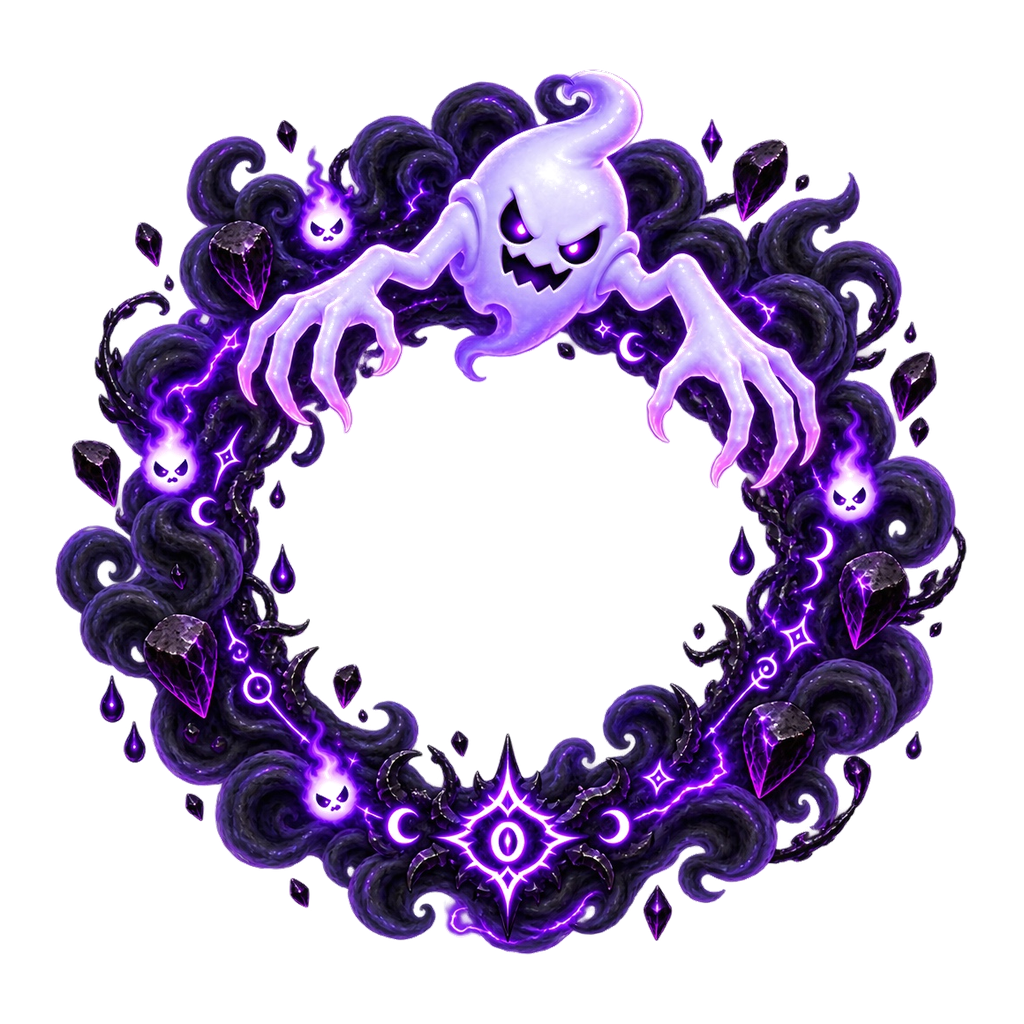
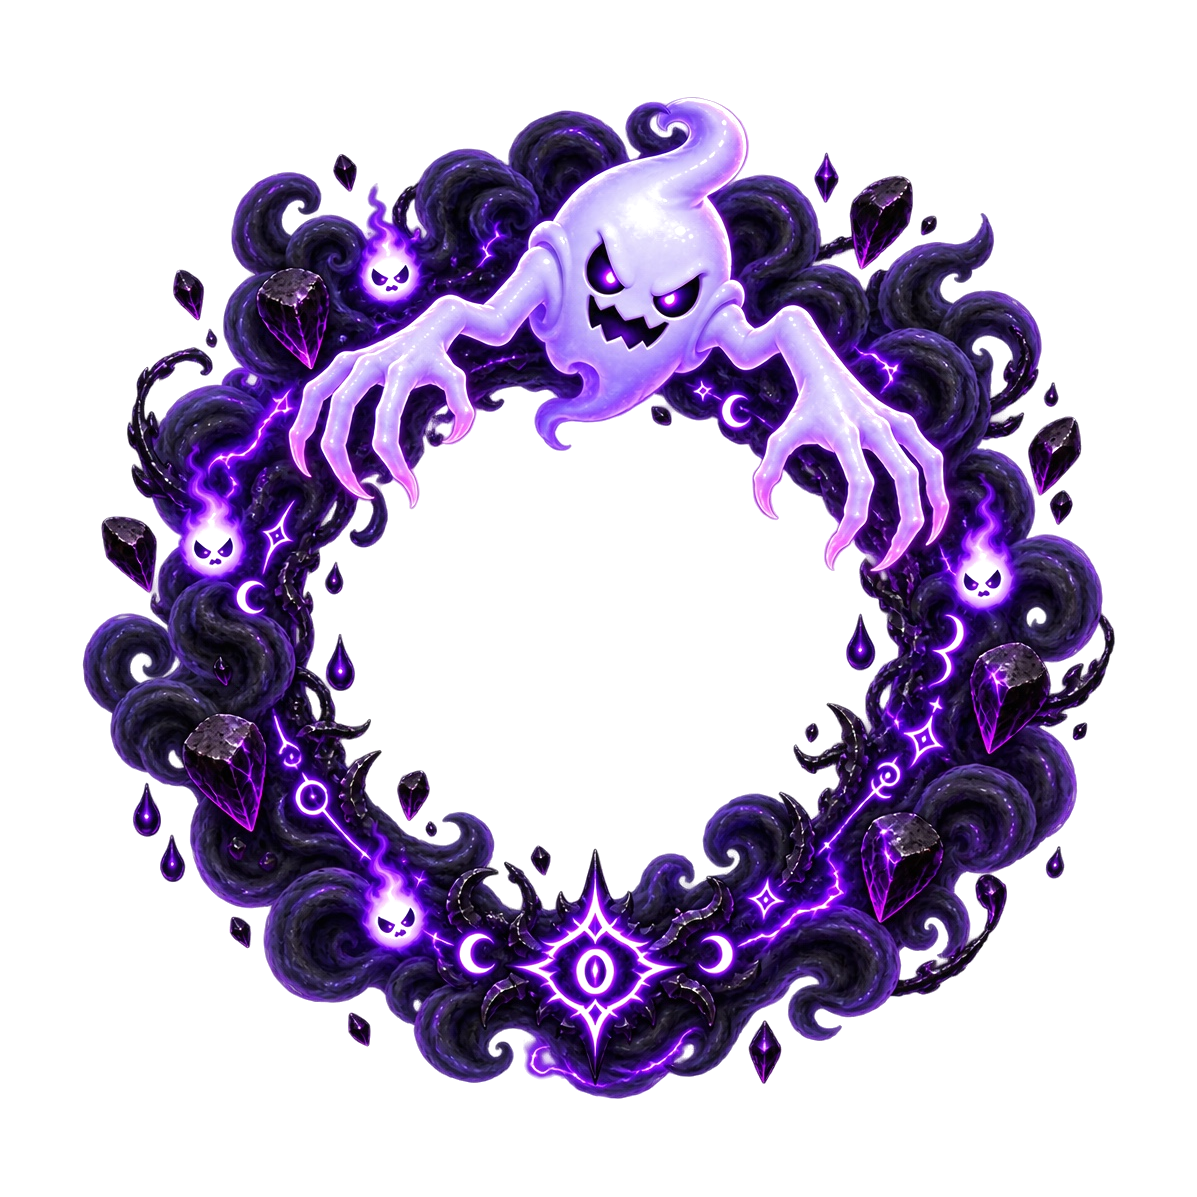
Add files via upload

diff --git a/game.js b/game.js
@@ -7715,7 +7715,7 @@ renderDogHotelScene=function(){
    V14.2 — Black Magic / Play Curse on Friend Plots
    Asset filename expected: black-magic-plot-overlay.png
    ====================================================================== */
-const BLACK_MAGIC_PLOT_IMAGE="black-magic-plot-overlay.png?v=2";
+const BLACK_MAGIC_PLOT_IMAGE="black-magic-plot-overlay.png?v=3";
 const BLACK_MAGIC_DURATION_MS=3*60*60*1000;
 const BLACK_MAGIC_DAILY_LIMIT=20;
 const BLACK_MAGIC_REMOVE_COST={egg:10,milk:20};
@@ -7763,19 +7763,22 @@ function ensureBlackMagicStyles(){
   const style=document.createElement('style');
   style.id='blackMagicStyleV142';
   style.textContent=`
-    .plot-black-magic-active{box-shadow:0 0 0 2px rgba(55,0,66,.45), 0 14px 28px rgba(0,0,0,.22) inset;}
-    .plot-black-magic-overlay{position:absolute;inset:-8% -8% -4% -8%;pointer-events:none;display:flex;align-items:center;justify-content:center;z-index:3;animation:blackMagicFloatV143 1.55s ease-in-out infinite,blackMagicFlickerV143 2.4s steps(2,end) infinite;transform-origin:center;}
-    @keyframes blackMagicFloatV143{0%,100%{transform:translate3d(0,0,0) scale(.98) rotate(-1deg)}25%{transform:translate3d(-2px,1px,0) scale(1.02) rotate(.7deg)}50%{transform:translate3d(2px,-1px,0) scale(1.035) rotate(-.4deg)}75%{transform:translate3d(-1px,-2px,0) scale(1.01) rotate(.8deg)}}
-    @keyframes blackMagicFlickerV143{0%,100%{opacity:.92;filter:brightness(.88) saturate(1.15)}20%{opacity:1;filter:brightness(1.18) saturate(1.35)}40%{opacity:.84;filter:brightness(.72) saturate(1.05)}60%{opacity:1;filter:brightness(1.28) saturate(1.45)}80%{opacity:.9;filter:brightness(.82) saturate(1.18)}}
-    .plot-black-magic-overlay img{width:100%;height:100%;object-fit:contain;filter:drop-shadow(0 8px 8px rgba(0,0,0,.46)) drop-shadow(0 0 8px rgba(119,27,195,.65));}
-    .plot-black-magic-active::after{content:"";position:absolute;inset:0;z-index:2;pointer-events:none;border-radius:inherit;background:radial-gradient(circle at 50% 50%,rgba(17,0,25,.06),rgba(8,0,13,.34));animation:blackMagicDarkPulseV143 1.8s ease-in-out infinite;}
-    @keyframes blackMagicDarkPulseV143{0%,100%{opacity:.55}50%{opacity:.92}}
-    .plot-black-magic-badge{position:absolute;right:8px;bottom:8px;z-index:4;background:linear-gradient(180deg,#2d103f,#15071d);color:#f3d8ff;border:2px solid rgba(227,180,255,.55);border-radius:999px;padding:4px 10px;font-size:11px;line-height:1;font-weight:700;box-shadow:0 6px 16px rgba(0,0,0,.2);pointer-events:none;}
-    .black-magic-actions{display:grid;gap:10px;margin-top:12px;}
+    .plot-black-magic-active{box-shadow:0 0 0 2px rgba(73,16,95,.52), 0 0 18px rgba(117,0,186,.18), 0 16px 30px rgba(0,0,0,.22) inset;}
+    .plot-black-magic-overlay{position:absolute;inset:-22% -22% -18% -22%;pointer-events:none;display:flex;align-items:center;justify-content:center;z-index:3;animation:blackMagicFloatV144 1.8s ease-in-out infinite,blackMagicFlickerV144 2.6s steps(2,end) infinite;transform-origin:center;}
+    @keyframes blackMagicFloatV144{0%,100%{transform:translate3d(0,0,0) scale(1.02) rotate(-1.2deg)}25%{transform:translate3d(-3px,2px,0) scale(1.06) rotate(.7deg)}50%{transform:translate3d(3px,-2px,0) scale(1.09) rotate(-.5deg)}75%{transform:translate3d(-1px,-3px,0) scale(1.05) rotate(.8deg)}}
+    @keyframes blackMagicFlickerV144{0%,100%{opacity:.95;filter:brightness(.92) saturate(1.18)}18%{opacity:1;filter:brightness(1.2) saturate(1.38)}40%{opacity:.86;filter:brightness(.76) saturate(1.1)}65%{opacity:1;filter:brightness(1.34) saturate(1.5)}82%{opacity:.9;filter:brightness(.84) saturate(1.2)}}
+    .plot-black-magic-overlay img{width:118%;height:118%;object-fit:contain;background:transparent !important;mix-blend-mode:normal;filter:drop-shadow(0 10px 12px rgba(0,0,0,.5)) drop-shadow(0 0 12px rgba(126,36,228,.75));}
+    .plot-black-magic-active::after{content:"";position:absolute;inset:-2%;z-index:2;pointer-events:none;border-radius:inherit;background:radial-gradient(circle at 50% 45%,rgba(44,0,67,.08),rgba(16,0,23,.28) 62%,rgba(9,0,13,.42));animation:blackMagicDarkPulseV144 2s ease-in-out infinite;}
+    @keyframes blackMagicDarkPulseV144{0%,100%{opacity:.58}50%{opacity:.9}}
+    .plot-black-magic-badge{position:absolute;left:50%;bottom:4px;transform:translateX(-50%);z-index:4;background:linear-gradient(180deg,rgba(70,25,102,.96),rgba(34,9,49,.98));color:#f8eaff;border:2px solid rgba(223,186,255,.6);border-radius:16px;padding:7px 14px 8px;min-width:116px;text-align:center;font-size:12px;line-height:1.15;font-weight:800;letter-spacing:.1px;box-shadow:0 10px 18px rgba(0,0,0,.22), inset 0 1px 0 rgba(255,255,255,.16);text-shadow:0 1px 0 rgba(0,0,0,.28);pointer-events:none;backdrop-filter:blur(4px);}
+    .black-magic-actions{display:grid;gap:10px;margin-top:14px;}
     .black-magic-actions button{width:100%;}
-    .black-magic-note{background:rgba(38,15,54,.08);border:1px dashed rgba(86,33,119,.35);border-radius:14px;padding:10px 12px;margin-top:10px;}
-    .black-magic-cost{display:flex;gap:12px;justify-content:center;flex-wrap:wrap;margin-top:10px;}
-    .black-magic-cost span{background:#fff7fb;border:1px solid rgba(111,67,142,.22);border-radius:999px;padding:6px 12px;font-weight:700;}
+    .black-magic-note{background:linear-gradient(180deg,rgba(97,42,128,.1),rgba(54,16,73,.06));border:1px solid rgba(109,58,147,.22);box-shadow:inset 0 1px 0 rgba(255,255,255,.22);border-radius:16px;padding:12px 14px;margin-top:12px;color:#5a3668;}
+    .black-magic-cost{display:flex;gap:10px;justify-content:center;flex-wrap:wrap;margin-top:12px;}
+    .black-magic-cost span{background:linear-gradient(180deg,#fffefe,#fff6fd);border:1px solid rgba(111,67,142,.2);border-radius:999px;padding:7px 12px;font-weight:800;box-shadow:0 4px 10px rgba(62,21,93,.06);}
+    .black-magic-modal-title{text-align:center;margin-bottom:8px;}
+    .black-magic-remain-chip{display:inline-flex;align-items:center;justify-content:center;gap:6px;background:linear-gradient(180deg,#5f2a84,#341048);color:#fff0ff;border:2px solid rgba(228,199,255,.55);border-radius:999px;padding:8px 14px;font-weight:800;box-shadow:0 10px 18px rgba(42,10,60,.18);}
+    .black-magic-subtitle{text-align:center;color:#6a416e;margin:10px 0 0;}
   `;
   document.head.appendChild(style);
 }
@@ -7838,7 +7841,7 @@ function showOwnBlackMagicModal(index){
   if(!plot)return;
   const eggs=Number((ownState||state)?.animalProducts?.egg)||0,milk=Number((ownState||state)?.animalProducts?.milk)||0;
   const enough=eggs>=BLACK_MAGIC_REMOVE_COST.egg&&milk>=BLACK_MAGIC_REMOVE_COST.milk;
-  $('modalContent').innerHTML=`<section class="feature-panel confirm-panel"><h2>🪄 มนต์ดำครอบแปลง</h2><p>แปลงนี้ถูกเล่นของอยู่ และจะหายเองในอีก <b>${safeHtml(blackMagicRemainText(plot))}</b></p><div class="black-magic-cost"><span>🥚 ไข่เปรต ×${BLACK_MAGIC_REMOVE_COST.egg} <small>(มี ${eggs})</small></span><span>🥛 นมวัวอาฆาต ×${BLACK_MAGIC_REMOVE_COST.milk} <small>(มี ${milk})</small></span></div><div class="black-magic-note">ถ้าไม่แก้ของ มนต์ดำจะหายเองภายใน 3 ชั่วโมง</div><div class="black-magic-actions"><button id="removeBlackMagicBtn" class="primary-spooky-action" type="button" ${enough?'':'disabled'}>แก้ของ</button><button id="closeBlackMagicBtn" class="secondary-action" type="button">ปิด</button></div></section>`;
+  $('modalContent').innerHTML=`<section class="feature-panel confirm-panel"><div class="black-magic-modal-title"><h2>🪄 มนต์ดำครอบแปลง</h2><div class="black-magic-remain-chip">⏳ เหลือ ${safeHtml(blackMagicRemainText(plot))}</div><p class="black-magic-subtitle">แปลงนี้ถูกเล่นของอยู่ ถ้าไม่แก้ของ มนต์ดำจะหายเองภายใน 3 ชั่วโมง</p></div><div class="black-magic-cost"><span>🥚 ไข่เปรต ×${BLACK_MAGIC_REMOVE_COST.egg} <small>(มี ${eggs})</small></span><span>🥛 นมวัวอาฆาต ×${BLACK_MAGIC_REMOVE_COST.milk} <small>(มี ${milk})</small></span></div><div class="black-magic-note">ใช้วัตถุดิบด้านบนเพื่อถอนมนต์ดำออกจากแปลงนี้ได้ทันที</div><div class="black-magic-actions"><button id="removeBlackMagicBtn" class="primary-spooky-action" type="button" ${enough?'':'disabled'}>✨ แก้ของ</button><button id="closeBlackMagicBtn" class="secondary-action" type="button">ปิด</button></div></section>`;
   openModal();
   $('removeBlackMagicBtn').onclick=()=>removeBlackMagicFromOwnPlot(index);
   $('closeBlackMagicBtn').onclick=closeModal;
@@ -7894,7 +7897,7 @@ function showFriendBlackMagicMenu(index){
   if(plot.phase==='needsWater')actionButtons.push('<button id="friendWaterBtn" class="secondary-action" type="button">💧 รดน้ำ</button>');
   if(plot.phase==='worm')actionButtons.push('<button id="friendWormBtn" class="secondary-action" type="button">🐛 กำจัดหนอน</button>');
   actionButtons.push(`<button id="friendBlackMagicBtn" class="${canCurse?'danger-action':'secondary-action'}" type="button" ${canCurse?'':'disabled'}>🪄 เล่นของ</button>`);
-  $('modalContent').innerHTML=`<section class="feature-panel confirm-panel"><h2>🧿 แปลง #${index+1}</h2><p><b>${cropName}</b></p>${plotHasBlackMagic(plot)?`<div class="black-magic-note">ตอนนี้มีมนต์ดำอยู่แล้ว • เหลือ ${safeHtml(blackMagicRemainText(plot))}</div>`:`<div class="black-magic-note">วันนี้คุณเล่นของได้อีก <b>${remainText}</b> ${isBlackMagicAdmin()?'(Aida เล่นได้ไม่จำกัด)':'ครั้ง'}</div>`}<div class="black-magic-actions">${actionButtons.join('')}<button id="friendBlackMagicCloseBtn" class="secondary-action" type="button">ปิด</button></div></section>`;
+  $('modalContent').innerHTML=`<section class="feature-panel confirm-panel"><div class="black-magic-modal-title"><h2>🧿 แปลง #${index+1}</h2><p class="black-magic-subtitle"><b>${cropName}</b></p></div>${plotHasBlackMagic(plot)?`<div class="black-magic-note"><div class="black-magic-remain-chip">⏳ เหลือ ${safeHtml(blackMagicRemainText(plot))}</div><div style="margin-top:10px">ตอนนี้แปลงนี้มีมนต์ดำอยู่แล้ว</div></div>`:`<div class="black-magic-note">วันนี้คุณเล่นของได้อีก <b>${remainText}</b> ${isBlackMagicAdmin()?'(Aida เล่นได้ไม่จำกัด)':'ครั้ง'}</div>`}<div class="black-magic-actions">${actionButtons.join('')}<button id="friendBlackMagicCloseBtn" class="secondary-action" type="button">ปิด</button></div></section>`;
   openModal();
   if($('friendStealBtn'))$('friendStealBtn').onclick=()=>{closeModal();showStealConfirmation(index)};
   if($('friendWaterBtn'))$('friendWaterBtn').onclick=async()=>{closeModal();await waterFriendPlotV11(index)};

diff --git a/index.html b/index.html
@@ -254,6 +254,6 @@
       if(standalone) document.documentElement.classList.add("standalone-app");
     })();
   </script>
-  <script src="game.js?v=139"></script>
+  <script src="game.js?v=140"></script>
 </body>
 </html>
